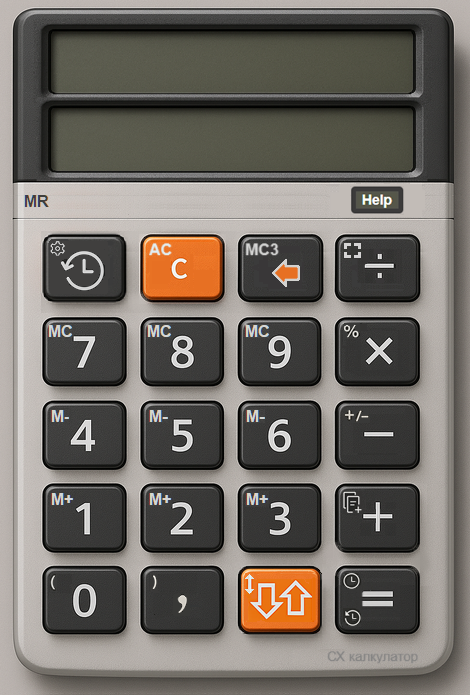
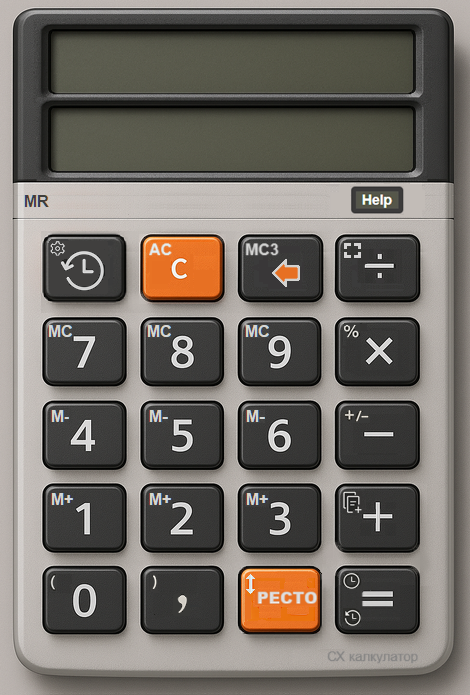
step 4

Changed region(s): [[0.5064, 0.8158, 0.6851, 0.9065]]

diff --git a/cx-calc/resto/mainAll.js b/cx-calc/resto/mainAll.js
@@ -59,7 +59,12 @@ var MainPointsO = {
     Status: { x: -10, y: 185 },
     StatusSize: { x: 45, y: 15 },
     CurrencyOffset: { x: -40, y: 15 },
-    CurrencyLevOffset: { x: -40, y: 15 }
+    CurrencyLevOffset: { x: -40, y: 15 },
+    Resto: { x: 13, y: -108 },
+    RestoSize: { x: 440, y: 290 },
+    Fields: { x: -210, y: -430 },
+    FieldsSize: { x: 190, y: 60 },
+    FldGaps: { x: 27, y: 34 },
 };
 
 const keyMapR = [ // Right-handed by default
@@ -407,18 +412,31 @@ function getImageVisualSize() {
         console.error("Грешка: Не е намерено изображението.");
         return;
     }
+
+    // Initialize offsets
+    window.imgOffsetX = 0;
+    window.imgOffsetY = 0;
+
+    const rect = calculator.getBoundingClientRect();
+    const elWidth = rect.width;
+    const elHeight = rect.height;
+
     let aspectRatio = calculator.naturalWidth / calculator.naturalHeight;
     if (calculator.style.objectFit === "cover") {
-        imageWidth = containerWidth;
-        imageHeight = containerHeight;
+        imageWidth = elWidth;
+        imageHeight = elHeight;
     } else if (calculator.style.objectFit === "contain") {
-        if (containerWidth / containerHeight > aspectRatio) {
-            imageHeight = containerHeight;
-            imageWidth = Math.round(containerHeight * aspectRatio);
+        if (elWidth / elHeight > aspectRatio) {
+            imageHeight = elHeight;
+            imageWidth = Math.round(elHeight * aspectRatio);
+            // Image is narrower, centered horizontally
+            window.imgOffsetX = (elWidth - imageWidth) / 2;
             console.log("(contain) - Изображението е по-широко от контейнера, използваме височината на контейнера.");
         } else {
-            imageWidth = containerWidth;
-            imageHeight = Math.round(containerWidth / aspectRatio);
+            imageWidth = elWidth;
+            imageHeight = Math.round(elWidth / aspectRatio);
+            // Image is shorter, centered vertically
+            window.imgOffsetY = (elHeight - imageHeight) / 2;
             console.log("(contain) - Изображението е по-високо от контейнера, използваме ширината на контейнера.");
         }
     } else {
@@ -585,17 +603,34 @@ function updateDisplays(userInput, formattedUserInput, keyPressed) {
 }
 
 function toggleDisplayMode() {
-    levMode = !levMode;
-    const newActiveValue = levMode
-        ? displaylv.textContent
-        : display.textContent;
-    userInput = newActiveValue.replace(/\s/g, ''); // премахване на интервали
-    // Ако стойността е цяло число, форматирано с ",00", премахваме десетичната част.
-    if (userInput.endsWith(','.padEnd(DECIMAL_PLACES + 1, '0'))) {
-        userInput = userInput.slice(0, -(DECIMAL_PLACES + 1));
+    // Toggle Resto Panel and Image visibility
+    const restoImage = document.getElementById('restoImage');
+    const panel = document.querySelector('.panel');
+
+    let isVisible = false;
+    if (panel && panel.style.display !== 'none' && panel.style.display !== '') {
+        isVisible = true;
     }
-    console.log("Променен режим - userInput:", userInput);
-    updateDisplays(userInput, userInput.replace(/\*/g, "×").replace(/\//g, "÷"), 'L');
+
+    if (isVisible) {
+        // Hide
+        if (restoImage) restoImage.style.display = 'none';
+        if (panel) panel.style.display = 'none';
+    } else {
+        // Show
+        if (restoImage) {
+            restoImage.style.display = 'block';
+            restoImage.style.pointerEvents = 'auto'; // Block clicks on the image area
+        }
+        if (panel) {
+            panel.style.display = 'flex';
+            panel.style.position = 'absolute';
+            panel.style.pointerEvents = 'none'; // Pass clicks through the transparent panel shell
+        }
+    }
+
+    // Recalculate layout to ensure overlays match any potential shifts
+    setTimeout(calcResize, 10);
 }
 
 function balanceBrackets(str) {
@@ -960,10 +995,23 @@ async function pasteNumber() {
     }
 }
 
+// Нова функция, която възстановява старата функционалност за смяна на дисплеите
+function swapDisplays() {
+    levMode = !levMode;
+    const newActiveValue = levMode
+        ? displaylv.textContent
+        : display.textContent;
+    userInput = newActiveValue.replace(/\s/g, '');
+    if (userInput.endsWith(','.padEnd(DECIMAL_PLACES + 1, '0'))) {
+        userInput = userInput.slice(0, -(DECIMAL_PLACES + 1));
+    }
+    updateDisplays(userInput, userInput.replace(/\*/g, "×").replace(/\//g, "÷"), 'L');
+}
+
 function switchNumber() {
     appendNumber("="); // за да запомним числото от активния дисплей в клипборда
     appendNumber("C"); // изтриваме дисплея
-    appendNumber("L"); // превключваме дисплея
+    swapDisplays();    // превключваме дисплея (стара функционалност)
     pasteNumber(); // поставяме числото от клипборда
 }
 
@@ -2213,14 +2261,18 @@ function calcNewCoordinates() {
     const containerRect = document.getElementById('calculatorContainer').getBoundingClientRect();
     // console.log("Координати на калкулатора L T:", rect.left, rect.top, MainPoints.Display.y);
     // Връщаме координати за оверлея
+    // Връщаме координати за оверлея
+    const offX = window.imgOffsetX || 0;
+    const offY = window.imgOffsetY || 0;
+
     const displayCoords = {
         lv: {
-            x: rect.left + MainPoints.Displaylv.x,
-            y: rect.top + MainPoints.Displaylv.y
+            x: rect.left + offX + MainPoints.Displaylv.x,
+            y: rect.top + offY + MainPoints.Displaylv.y
         },
         eur: {
-            x: rect.left + MainPoints.Display.x,
-            y: rect.top + MainPoints.Display.y
+            x: rect.left + offX + MainPoints.Display.x,
+            y: rect.top + offY + MainPoints.Display.y
         }
     };
     // в  масива за клавишите - новите координати
@@ -2228,8 +2280,8 @@ function calcNewCoordinates() {
     for (let row = 0; row < rows; row++) {
         for (let col = 0; col < cols; col++) {
             keys.push({
-                x: rect.left + MainPoints.Keys.x + col * (MainPoints.KeySize.x + MainPoints.KbdGaps.x),
-                y: rect.top + MainPoints.Keys.y + row * (MainPoints.KeySize.y + MainPoints.KbdGaps.y),
+                x: rect.left + offX + MainPoints.Keys.x + col * (MainPoints.KeySize.x + MainPoints.KbdGaps.x),
+                y: rect.top + offY + MainPoints.Keys.y + row * (MainPoints.KeySize.y + MainPoints.KbdGaps.y),
                 value: getKeyValue(row, col)
             });
         }
@@ -2240,7 +2292,15 @@ function calcNewCoordinates() {
         { label: "Валута", id: "currency", coords: { x: displayCoords.eur.x + MainPoints.CurrencyOffset.x, y: displayCoords.eur.y + MainPoints.CurrencyOffset.y } },
         { label: "Валута Лев", id: "currencyLev", coords: { x: displayCoords.lv.x + MainPoints.CurrencyLevOffset.x, y: displayCoords.lv.y + MainPoints.CurrencyLevOffset.y } }
     ];
-    markers.forEach(({ label, id, coords }) => {
+    if (MainPoints.Resto) {
+        markers.push({
+            label: "Resto Panel",
+            id: "restoImage",
+            coords: { x: Math.round(rect.left + offX + MainPoints.Resto.x), y: Math.round(rect.top + offY + MainPoints.Resto.y) },
+            size: MainPoints.RestoSize ? { x: Math.round(MainPoints.RestoSize.x), y: Math.round(MainPoints.RestoSize.y) } : null
+        });
+    }
+    markers.forEach(({ label, id, coords, size }) => {
         // console.log("Дисплей на калкулатора.");
         const x = parseFloat(coords?.x);
         const y = parseFloat(coords?.y);
@@ -2272,9 +2332,41 @@ function calcNewCoordinates() {
         } else if (id === "currency" || id === "currencyLev") {
             const baseFontSize = 24; // Базов размер на шрифта
             marker.style.fontSize = `${baseFontSize * aspectRatioH}px`;
+        } else if (size) {
+            marker.style.width = `${size.x}px`;
+            marker.style.height = `${size.y}px`;
         }
     });
-    for (let i = 1; i < 5; i++) positionStatusArea(i);
+    // Position Resto Fields
+    if (MainPoints.Fields && MainPoints.FieldsSize && MainPoints.FldGaps) {
+        const fieldIds = [
+            ['due1', 'due2'],
+            ['paid1', 'paid2'],
+            ['resto1', 'resto2']
+        ];
+
+        for (let r = 0; r < fieldIds.length; r++) {
+            for (let c = 0; c < fieldIds[r].length; c++) {
+                const fId = fieldIds[r][c];
+                const inputEl = document.getElementById(fId);
+                if (inputEl) {
+                    const fx = rect.left + offX + MainPoints.Fields.x + c * (MainPoints.FieldsSize.x + MainPoints.FldGaps.x);
+                    const fy = rect.top + offY + MainPoints.Fields.y + r * (MainPoints.FieldsSize.y + MainPoints.FldGaps.y);
+
+                    inputEl.style.position = 'absolute';
+                    inputEl.style.left = `${Math.round(fx - containerRect.left)}px`;
+                    inputEl.style.top = `${Math.round(fy - containerRect.top)}px`;
+                    inputEl.style.width = `${Math.round(MainPoints.FieldsSize.x)}px`;
+                    inputEl.style.height = `${Math.round(MainPoints.FieldsSize.y)}px`;
+
+                    // Hide wrapper/others if necessary by ensuring input is top level or behaves well? 
+                    // We just force the input.
+                }
+            }
+        }
+    }
+
+    for (let i = 1; i < 5; i++) positionStatusArea(i); // already there
     return { keys, displayCoords };
 }
 

diff --git a/cx-calc/resto/resto.css b/cx-calc/resto/resto.css
@@ -1,14 +1,20 @@
 .panel {
-    width: 95%;
-    margin: 0 auto 10px auto;
-    background: #393a38;
-    backdrop-filter: blur(10px);
-    border-radius: 16px;
-    padding: 4px 10px;
-    box-shadow: 0 20px 60px rgba(0, 0, 0, 0.3);
-    box-sizing: border-box;
-    position: relative;
-    z-index: 20;
+    /* Layout reset for absolute positioning of children */
+    position: absolute;
+    top: 50%;
+    left: 50%;
+    width: 100%;
+    height: 100%;
+    /* Cover container so interactions pass? No, pointer-events? */
+    /* pointer-events: none; allow clicking inputs? inputs have auto */
+    background: transparent;
+    backdrop-filter: none;
+    border-radius: 0;
+    padding: 0;
+    margin: 0;
+    box-shadow: none;
+    border: none;
+    z-index: 10001;
 }
 
 .field-group {
@@ -40,6 +46,56 @@
     position: relative;
     flex: 1;
 }
+
+.clear-bt.panel {
+    top: 50%;
+    /* left: 50%; remove centering logic as it's absolute now */
+    /* transform: translate(-50%, -50%); */
+    width: 100%;
+    /* controlled by JS max-width */
+    background: transparent;
+    border-radius: 0;
+    padding: 0;
+    box-shadow: none;
+    border: none;
+    z-index: 10001;
+    /* display: flex; logic handled by JS toggle */
+    /* flex-direction: column; */
+    /* gap: 15px; */
+}
+
+/* Hide structural elements that are replaced by absolute positioning */
+.field-label,
+.clear-btn,
+.split-labels,
+#resto-main-label {
+    display: none !important;
+}
+
+/* Ensure containers are visible but neutral */
+.field-group,
+.input-pair,
+.input-wrapper {
+    display: block !important;
+    position: static;
+    margin: 0;
+    padding: 0;
+    border: none;
+    background: transparent;
+    width: auto;
+    height: auto;
+    pointer-events: none;
+    /* Let clicks pass through containers? No, inputs need clicks. */
+    /* If container is pointer-events: none, children can be auto. */
+}
+
+input[type="text"] {
+    pointer-events: auto !important;
+    /* Ensure inputs are clickable */
+}
+
+/* Hide labels and buttons specifically */
+/* .field-label, .clear-btn moved up */
 
 .clear-btn {
     position: absolute;

diff --git a/cx-calc/resto/index.html b/cx-calc/resto/index.html
@@ -149,7 +149,9 @@
 
     <div class="calculator-container" id="calculatorContainer">
         <!-- Ресто -->
-        <div class="panel">
+        <img id="restoImage" src="Resto.png" alt="Resto Panel"
+            style="display: none; position: absolute; pointer-events: none; z-index: 9;">
+        <div class="panel" style="z-index: 10;">
             <!-- Първа двойка: Стойност -->
             <div class="field-group">
                 <div class="field-label">Стойност</div>
